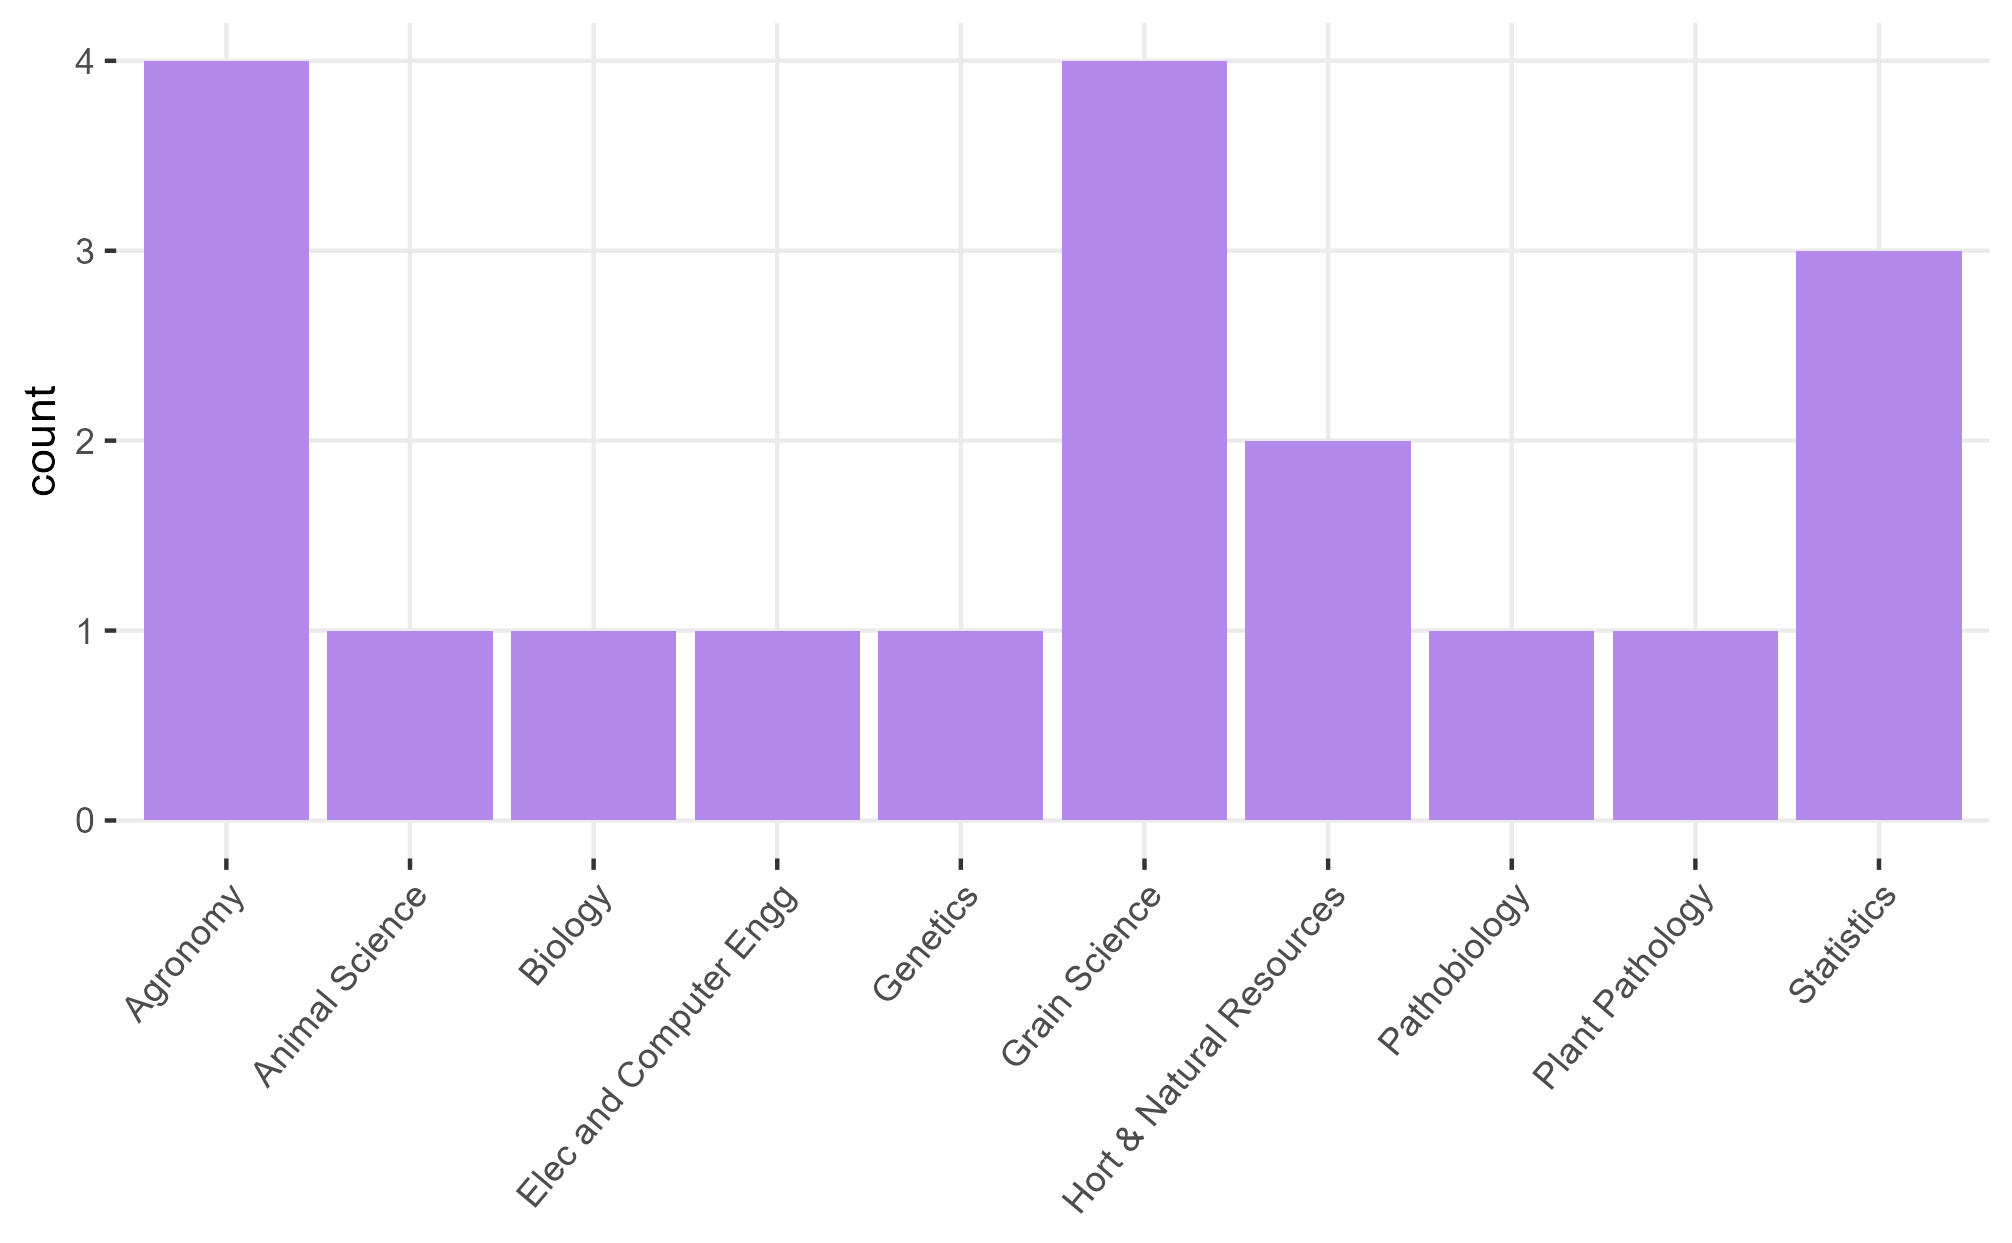
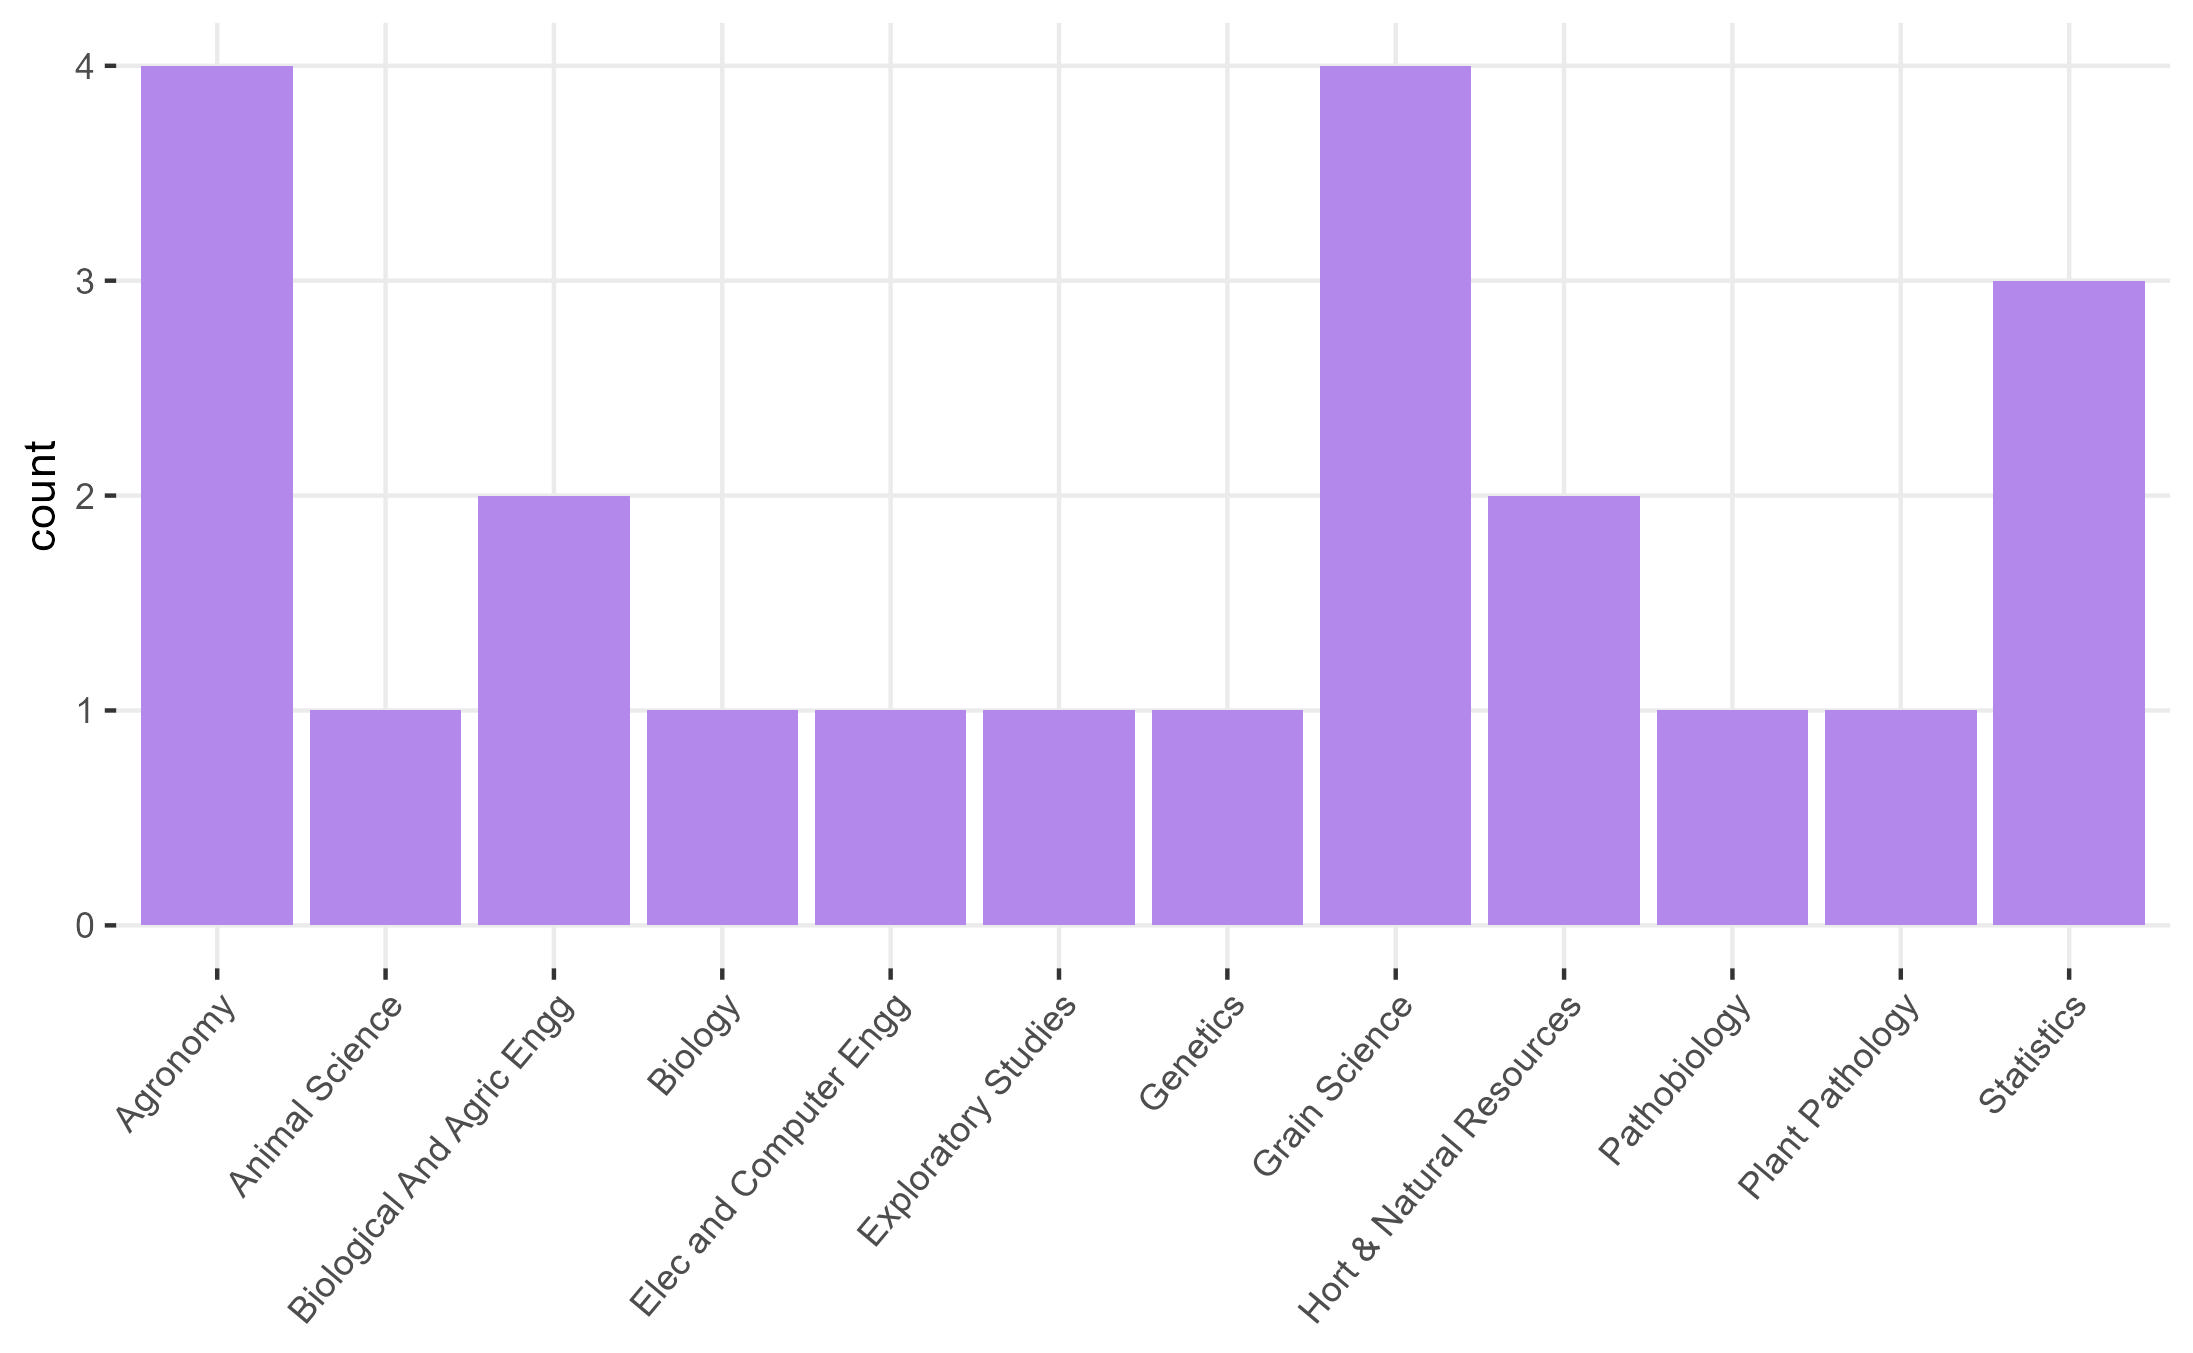
students update

diff --git a/notes/index.html b/notes/index.html
@@ -135,7 +135,7 @@
 <li><a href="https://jlacasa.github.io/">About me</a></li>
 <li>About you:</li>
 </ul>
-<div class="figure" style="text-align: center"><span style="display:block;" id="fig:unnamed-chunk-1"></span>
+<div class="figure" style="text-align: center"><span style="display:block;" id="fig:unnamed-chunk-2"></span>
 <img src="../figures/students.jpg" alt="Students of this class" width="80%" />
 <p class="caption">
 Figure 1.1: Students of this class
@@ -175,7 +175,7 @@ Figure 1.1: Students of this class
 </div>
 <div id="overview-of-the-course" class="section level2 hasAnchor" number="1.3">
 <h2><span class="header-section-number">1.3</span> Overview of the course<a href="index.html#overview-of-the-course" class="anchor-section" aria-label="Anchor link to header"></a></h2>
-<div class="figure" style="text-align: center"><span style="display:block;" id="fig:unnamed-chunk-4"></span>
+<div class="figure" style="text-align: center"><span style="display:block;" id="fig:unnamed-chunk-5"></span>
 <img src="../figures/mindmap_1.jpg" alt="Mindmap" width="80%" />
 <p class="caption">
 Figure 1.2: Mindmap
@@ -251,7 +251,7 @@ where:</p>
 <li>What is the link function?</li>
 <li>What is the blueprint of the design/data?</li>
 </ul>
-<div class="figure" style="text-align: center"><span style="display:block;" id="fig:unnamed-chunk-5"></span>
+<div class="figure" style="text-align: center"><span style="display:block;" id="fig:unnamed-chunk-6"></span>
 <img src="../figures/stroup_distributions.jpg" alt="Common variable distributions. Page 60 in Stroup et al. (2024)" width="80%" />
 <p class="caption">
 Figure 1.3: Common variable distributions. Page 60 in Stroup et al. (2024)

diff --git a/notes/semester-project.html b/notes/semester-project.html
@@ -135,7 +135,7 @@
 </div>
 <div id="partial-deadlines" class="section level2 hasAnchor" number="2.2">
 <h2><span class="header-section-number">2.2</span> Partial deadlines<a href="semester-project.html#partial-deadlines" class="anchor-section" aria-label="Anchor link to header"></a></h2>
-<div class="figure" style="text-align: center"><span style="display:block;" id="fig:unnamed-chunk-6"></span>
+<div class="figure" style="text-align: center"><span style="display:block;" id="fig:unnamed-chunk-7"></span>
 <img src="../figures/calendar870.jpg" alt="Project deadlines" width="80%" />
 <p class="caption">
 Figure 2.1: Project deadlines
